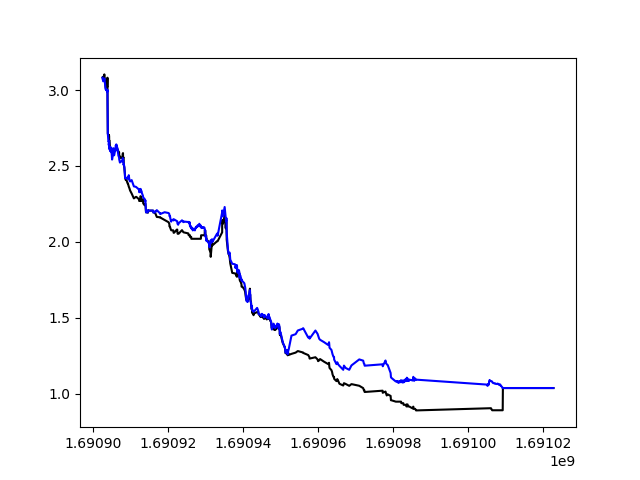
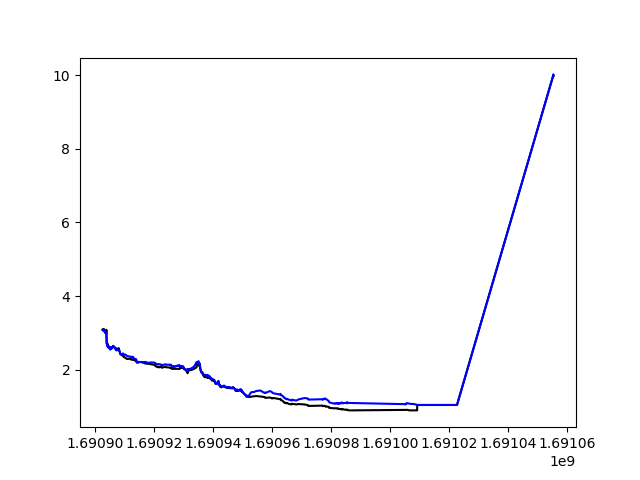
123

diff --git a/trader.py b/trader.py
@@ -18,9 +18,15 @@ class Trader():
         self.lev = 20
         self.wins = [1, 8, 15, 70]              # 3번째
         self.limit = self.wins[-1]*10           # for past_data
-        self.max_loss = -2                     # 마이너스인거 확인
         self.anx_pnl = -4
-        self.min_profit = 0.2*self.lev          # 20 일때 11%  
+        
+        ###############################################
+        self.max_loss = -2                     # 마이너스인거 확인
+        profit = 6
+        ###############################################
+
+
+        self.min_profit = profit #0.3*self.lev          # 20 일때 11%  
         self.ratio = 0.1
         
         if not symbol:
@@ -28,7 +34,7 @@ class Trader():
                                 self.tf, self.limit, self.wins, self.symnum)
         self.sym = symbol
 
-        self.satisfying_profit = 0.2*self.lev   # 20 일때 2%
+        self.satisfying_profit = profit #0.2*self.lev   # 20 일때 2%
 
         self.time_interval = 3
         self.tf_ = int(self.tf[:-1])
@@ -260,7 +266,9 @@ class Trader():
                 
                         #
                         while 1:
+                            time.sleep(self.time_interval)
                             if self.whether_filled() == True:
+                                print("Limit Market Filled")
                                 return self.sym  # finish the iteration
 
                     except Exception as error:

diff --git a/utils.py b/utils.py
@@ -449,7 +449,7 @@ def m4_turn(m4, ref=0.005):
 
 
 def get_binance():
-    with open("hyoungjoon.txt") as f:
+    with open("a.txt") as f:
         lines = f.readlines()
         api_key = lines[0].strip()
         secret  = lines[1].strip()
